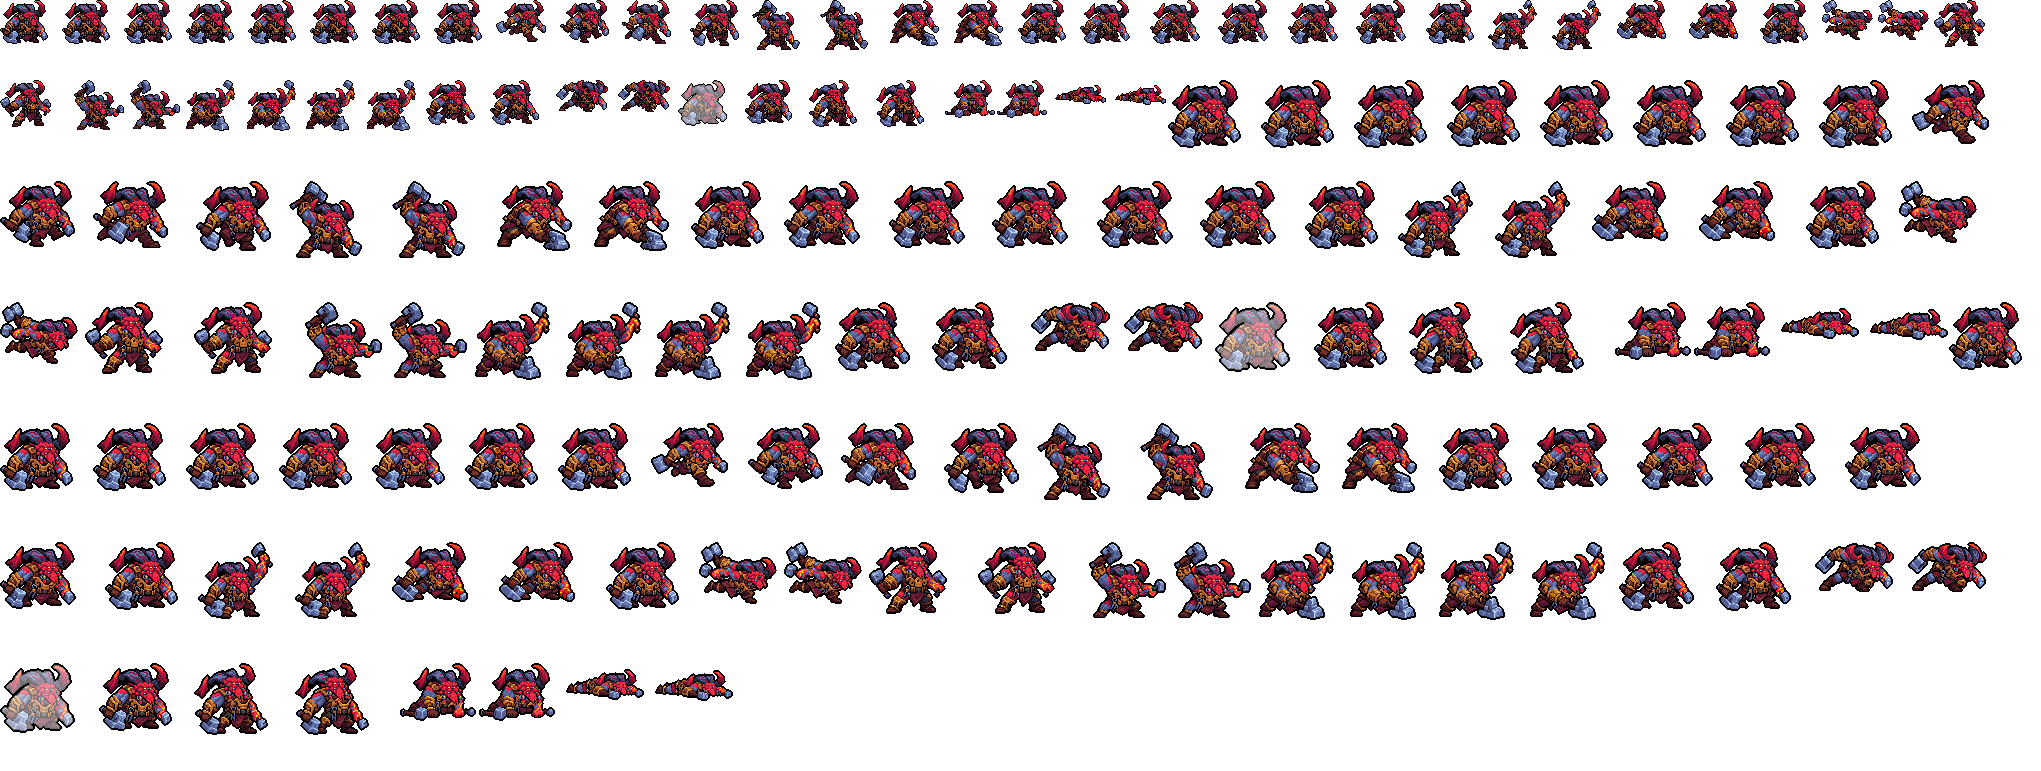
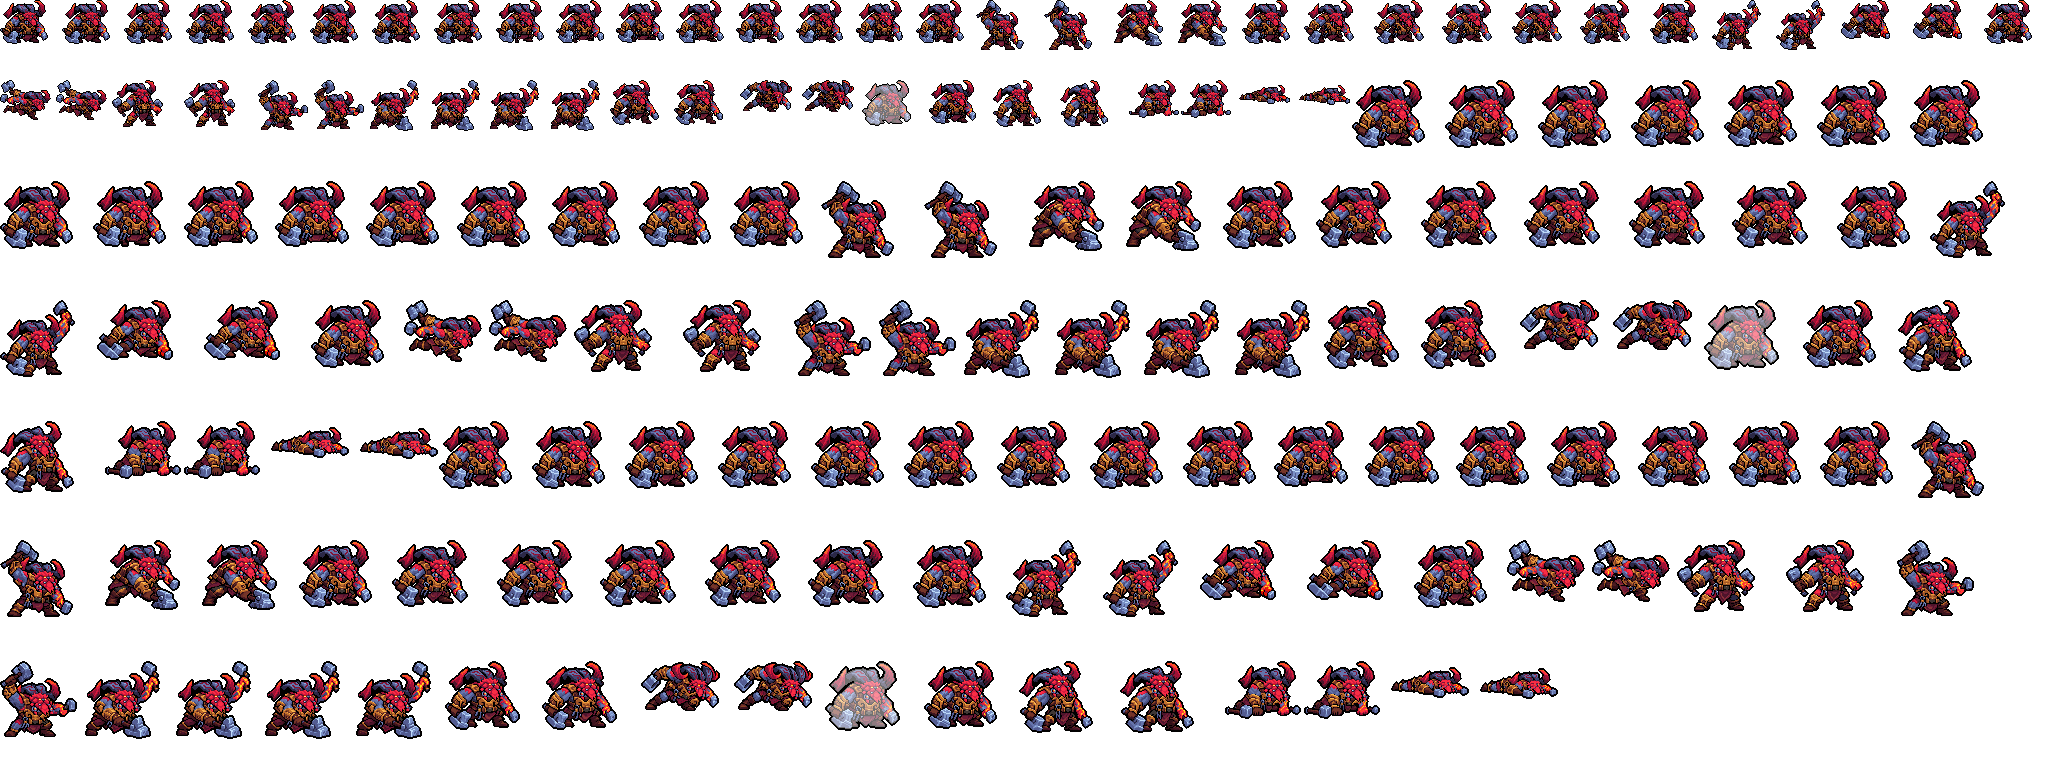
Ornn's run drawn on the design (ornn_legs.py): the design's upper body, his boots stepping in eight phases, a bouncing trot (0-1-2-1 rows), the big hammer carried two rows off the ground and swaying a column; replaces Codex's four run poses (the user: 「奥恩走路是这样走的？」)

diff --git a/tools/art/ornn_legs.py b/tools/art/ornn_legs.py
@@ -1,0 +1,163 @@
+#!/usr/bin/env python3
+"""Ornn's run, drawn on the design (the user, 2026-10-21, on Codex's four run poses: 「奥恩走路是这样走的？」 then
+「跑步用定稿的上身，你自己画腿的跑步循环（像格雷福斯那样），大锤只轻微摆动」).
+
+    python tools/art/ornn_legs.py --check DIR      # the eight run frames at 10x + a GIF
+
+His design (hd/idle.png, 71 x 66) shows almost no leg: the plum apron hangs to row 58 and only two boots stand under it
+(the near one at columns 25-31, half behind the big hammer's head; the far one at 45-58), so the stride is the boots'
+(graves_legs' rule, one foot in eight phases and the other four on, shrunk to his stubby legs):
+  * the body (every row above LEG_ROW, the apron, both arms and hammers) is the design's own, never redrawn; it sets a
+    row or two down while his weight comes onto a foot under him (BOB) and leans a column forward for the run (LEAN);
+  * each boot is the design's own, cut whole (BOOTS) and only moved by whole squares: planted it slides back under him,
+    lifted it swings forward a row or two up (PHASES); the near boot in front of the apron, the far one behind it;
+  * a lifted boot overlaps the apron's hem (the near one in front of it: the knee raised), so no leg stub is needed;
+  * the hammers sway with the stride a column either way (the big one with the near arm's swing, the small one
+    against it) - their heads only, the design's own squares (HAMMERS), the hands holding them stay; the big head is
+    carried CARRY rows off the ground (League's run holds the hammers), so the near boot shows under it.
+"""
+import argparse
+import os
+import sys
+
+import numpy as np
+from PIL import Image, ImageDraw
+from scipy import ndimage
+
+HERE = os.path.dirname(os.path.abspath(__file__))
+ROOT = os.path.dirname(os.path.dirname(HERE))
+SRC = os.path.join(ROOT, "assets", "source", "ornn", "hd")
+INK = (1, 0, 0)
+LEG_ROW = 59                       # the design's rows from here down (between LEG_COLS) are the boots
+LEG_COLS = (24, 60)
+PLUM = [(51, 16, 25), (78, 20, 43), (111, 27, 55), (78, 20, 43)]   # a leg stub's colours across (back edge to front)
+# the boots on hd/idle.png: (rows, cols) boxes, the outline included; steel squares (a hammer's) never taken
+BOOTS = {"near": ((58, 64), (25, 32)), "far": ((58, 64), (44, 58))}
+# the hammers' heads (and the handle's end) on hd/idle.png: (rows, cols) boxes, steel squares and their outline
+HAMMERS = {"big": ((44, 66), (0, 29)), "small": ((49, 63), (57, 71))}
+# one boot's eight phases: (columns forward, rows up); the near boot plays phase k in frame k, the far one k + 4
+PHASES = [(3, 0), (1, 0), (-1, 0), (-3, 0), (-3, 1), (-1, 3), (2, 3), (3, 1)]
+BOB = [0, 1, 2, 1, 0, 1, 2, 1]     # the body rows down: lowest at mid-stance (the planted foot under him), up as the
+                                   # step passes - a heavy bouncing trot (a single row was lost at game size: under a
+                                   # game pixel, the user's 「奥恩走路是这样走的？」 compared with League's)
+LEAN = 1                           # the body a column forward for the whole run
+SWAY = [0, -1, -1, 0, 0, 1, 1, 0]  # the big hammer's head, columns (the small one the other way)
+CARRY = 2                          # the big hammer's head carried this many rows off the ground while he runs (League's
+                                   # run: the hammers held, not dragged) - the near boot shows under it
+
+
+def steel(d):
+    rgb = d[..., :3].astype(int)
+    return (d[..., 3] > 0) & (rgb[..., 2] > rgb[..., 0] + 25)
+
+
+def box_mask(shape, rows, cols):
+    m = np.zeros(shape[:2], bool)
+    m[rows[0]:rows[1] + 1, cols[0]:cols[1] + 1] = True
+    return m
+
+
+def boot_mask(d, key):
+    (r0, r1), (c0, c1) = BOOTS[key]
+    return box_mask(d.shape, (max(r0, LEG_ROW - 1), r1), (c0, c1)) & (d[..., 3] > 0) & ~steel(d) & \
+        (np.arange(d.shape[0])[:, None] >= LEG_ROW - 1)
+
+
+def hammer_mask(d, key):
+    (r0, r1), (c0, c1) = HAMMERS[key]
+    box = box_mask(d.shape, (r0, r1), (c0, c1))
+    s = steel(d) & box
+    lb, n = ndimage.label(s)
+    if n:
+        sizes = ndimage.sum(s, lb, range(1, n + 1))
+        s = lb == (1 + int(np.argmax(sizes)))         # the head: the biggest steel blob in the box
+    ring = ndimage.binary_dilation(s) & ~s & box & (d[..., 3] > 0) & (d[..., :3].astype(int).sum(2) < 60)
+    return s | ring
+
+
+def paste(can, src, mask, dx, dy, under=False):
+    ys, xs = np.nonzero(mask)
+    ty, tx = ys + dy, xs + dx
+    ok = (ty >= 0) & (ty < can.shape[0]) & (tx >= 0) & (tx < can.shape[1])
+    ys, xs, ty, tx = ys[ok], xs[ok], ty[ok], tx[ok]
+    if under:
+        free = can[ty, tx, 3] == 0
+        ys, xs, ty, tx = ys[free], xs[free], ty[free], tx[free]
+    can[ty, tx] = src[ys, xs]
+
+
+def stub(can, top, bottom, x0, x1):
+    """A leg stub from row `top` down to row `bottom` (inclusive) between columns x0..x1, the outline round it."""
+    if bottom < top:
+        return
+    w = x1 - x0 + 1
+    for y in range(top, bottom + 1):
+        for i in range(w):
+            c = PLUM[min(len(PLUM) - 1, i * len(PLUM) // w)]
+            can[y, x0 + i] = (*c, 255)
+        for x in (x0 - 1, x1 + 1):
+            if can[y, x, 3] == 0:
+                can[y, x] = (*INK, 255)
+
+
+def frame(d, k, pad=(4, 4)):
+    """Run frame k (0-7) on the design's grid padded by `pad` (columns, rows): the boots, the stubs, the body."""
+    px, py = pad
+    H, W = d.shape[:2]
+    can = np.zeros((H + 2 * py, W + 2 * px, 4), np.uint8)
+    legs = box_mask(d.shape, (LEG_ROW, H - 1), LEG_COLS) & ~steel(d)
+    hb, hs = hammer_mask(d, "big"), hammer_mask(d, "small")
+    body = d.copy()
+    body[legs] = 0
+    body[hb | hs] = 0
+    bob = BOB[k]
+    # the far boot (behind the apron) and its stub
+    for key, ph in (("far", (k + 4) % 8),):
+        fx, fy = PHASES[ph]
+        m = boot_mask(d, key)
+        paste(can, d, m, px + fx + LEAN, py - fy)
+    # the body over it (a row down on BOB), the apron's hem its lowest rows
+    paste(can, body, body[..., 3] > 0, px + LEAN, py + bob)
+    # the near boot in front of the apron
+    nx, ny = PHASES[k]
+    paste(can, d, boot_mask(d, "near"), px + nx + LEAN, py - ny)
+    # the hammers' heads, swayed (the big one carried off the ground)
+    s = SWAY[k]
+    paste(can, d, hb, px + LEAN + s, py + bob - CARRY)
+    paste(can, d, hs, px + LEAN - s, py + bob)
+    return can
+
+
+def main():
+    ap = argparse.ArgumentParser()
+    ap.add_argument("--check", required=True)
+    a = ap.parse_args()
+    os.makedirs(a.check, exist_ok=True)
+    d = np.asarray(Image.open(os.path.join(SRC, "idle.png")).convert("RGBA")).copy()
+    frs = [frame(d, k) for k in range(8)]
+    z = 10
+    tiles = []
+    for k, t in enumerate(frs):
+        bg = np.zeros(t.shape, np.uint8)
+        bg[...] = (200, 205, 195, 255)
+        m = t[..., 3] > 0
+        bg[m] = t[m]
+        im = Image.fromarray(np.repeat(np.repeat(bg, z, 0), z, 1)).convert("RGB")
+        ImageDraw.Draw(im).text((4, 4), str(k + 1), fill=(0, 0, 255))
+        tiles.append(im)
+    w, h = tiles[0].size
+    sh = Image.new("RGB", (4 * (w + 8), 2 * (h + 8)), (255, 255, 255))
+    for i, im in enumerate(tiles):
+        sh.paste(im, ((i % 4) * (w + 8), (i // 4) * (h + 8)))
+    sh.save(os.path.join(a.check, "ornn_run_legs.png"))
+    gif = []
+    for t in frs:
+        bg = Image.new("RGBA", (t.shape[1], t.shape[0]), (96, 112, 96, 255))
+        bg.alpha_composite(Image.fromarray(t))
+        gif.append(bg.convert("RGB").resize((t.shape[1] * 5, t.shape[0] * 5), Image.NEAREST))
+    gif[0].save(os.path.join(a.check, "ornn_run_legs.gif"), save_all=True, append_images=gif[1:], duration=110, loop=0)
+    print("written", a.check)
+
+
+if __name__ == "__main__":
+    main()

diff --git a/tools/art/rig_ornn.py b/tools/art/rig_ornn.py
@@ -11,7 +11,8 @@ Codex's own face): League's idle seen 3/4 from the front-right - hunched, legs p
 in the near hand, the smaller one in the molten far hand. The idle breathes on the design itself (the upper body sets
 down a row onto the legs and comes back). Every action is Codex's poses (tools/art/design_ornn_poses.py: eighteen of
 League's frames drawn on skeletons at the design's segment lengths, read back at the design's scale with the design's
-own face), each placed with the middle between its feet on the design's (the folded, lunging and lying ones by the
+own face) - but the run, drawn on the design itself (ornn_legs.py: his boots stepping under the design's own upper body) -
+each placed with the middle between its feet on the design's (the folded, lunging and lying ones by the
 middle of the plum apron) and its lowest row on the ground (or `lift` rows over it in the air), moved by whole squares
 only.
 The combos have their own frames (POSE_PROMPTS.md): Q -> E is `skill` (q_raise, q_slam: the fissure and the pillar)
@@ -28,6 +29,7 @@ from PIL import Image
 
 HERE = os.path.dirname(os.path.abspath(__file__))
 sys.path.insert(0, HERE)
+import ornn_legs as GL  # noqa: E402
 import ppu_rig as R  # noqa: E402
 from rig_warwick import close_cracks  # noqa: E402
 from rig_wukong import CutDesign as _Cut, P, pad  # noqa: E402
@@ -103,6 +105,16 @@ class Form:
         can[self.rig.GY:] = 0
         return close_cracks(can, self.D.outline)
 
+    def drawn(self, arr, pad):
+        """A frame drawn on the design's own grid (`pad` = (columns, rows) of margin round the design in `arr`): placed
+        exactly where the design stands."""
+        lay = np.zeros((self.D.H + 2 * P, self.D.W + 2 * P, 4), np.uint8)
+        y0, x0 = P - pad[1], P - pad[0]
+        lay[y0:y0 + arr.shape[0], x0:x0 + arr.shape[1]] = arr
+        can = R.compose(self.rig, [(lay, dict(dx=0, dy=0))])
+        can[self.rig.GY:] = 0
+        return can
+
     def posed(self, name, whole=(0, 0), lift=0):
         """A Codex pose (hd/pose_<name>.png) standing where the design stands: the middle of its apron on the design's,
         its lowest row on the ground - `lift` rows above it (in the air)."""
@@ -132,7 +144,7 @@ def form():
 
 # ------------------------------------------------------------------------------------------------- the actions
 # ms per frame
-MS = {"idle": [160] * 8, "run": [120] * 4,
+MS = {"idle": [160] * 8, "run": [110] * 8,
       "attack": [110, 123, 100, 90, 80],           # the smash from 233 ms: atk_st 14
       "skill_w": [125] * 6,                        # the breath held 750 ms: w_t 45
       "skill": [100, 100, 120, 100, 80],           # the fissure from 200 ms: q_rel 12
@@ -149,8 +161,10 @@ def frames_all(F):
     out = {}
     # idle (League's Ornn_Idle1: a slow heavy breath): the upper body sets down a row and back
     out["idle"] = [p(crouch=c) for c in (0, 0, 0, 1, 1, 1, 1, 0)]
-    # run (League's Ornn_Run: a heavy hunched trot, the hammers swinging): Codex's four run frames
-    out["run"] = [q("run1"), q("run2"), q("run3"), q("run4")]
+    # run (League's Ornn_Run: a heavy hunched trot, the hammers held): the design's upper body with his boots stepping in
+    # eight phases (tools/art/ornn_legs.py - the user, 2026-10-21, on Codex's four run poses: 「奥恩走路是这样走的？」 then
+    # 「跑步用定稿的上身，你自己画腿的跑步循环（像格雷福斯那样），大锤只轻微摆动」)
+    out["run"] = [F.drawn(GL.frame(F.D.d, k), (4, 4)) for k in range(8)]
     # auto attack (League's Ornn_Attack1: the big hammer raised over his head, then smashed down ahead): raise, the
     # smash (the hit), held, back
     out["attack"] = [q("raise"), q("raise", whole=(-1, 0)), q("smash"), q("smash"), p()]
